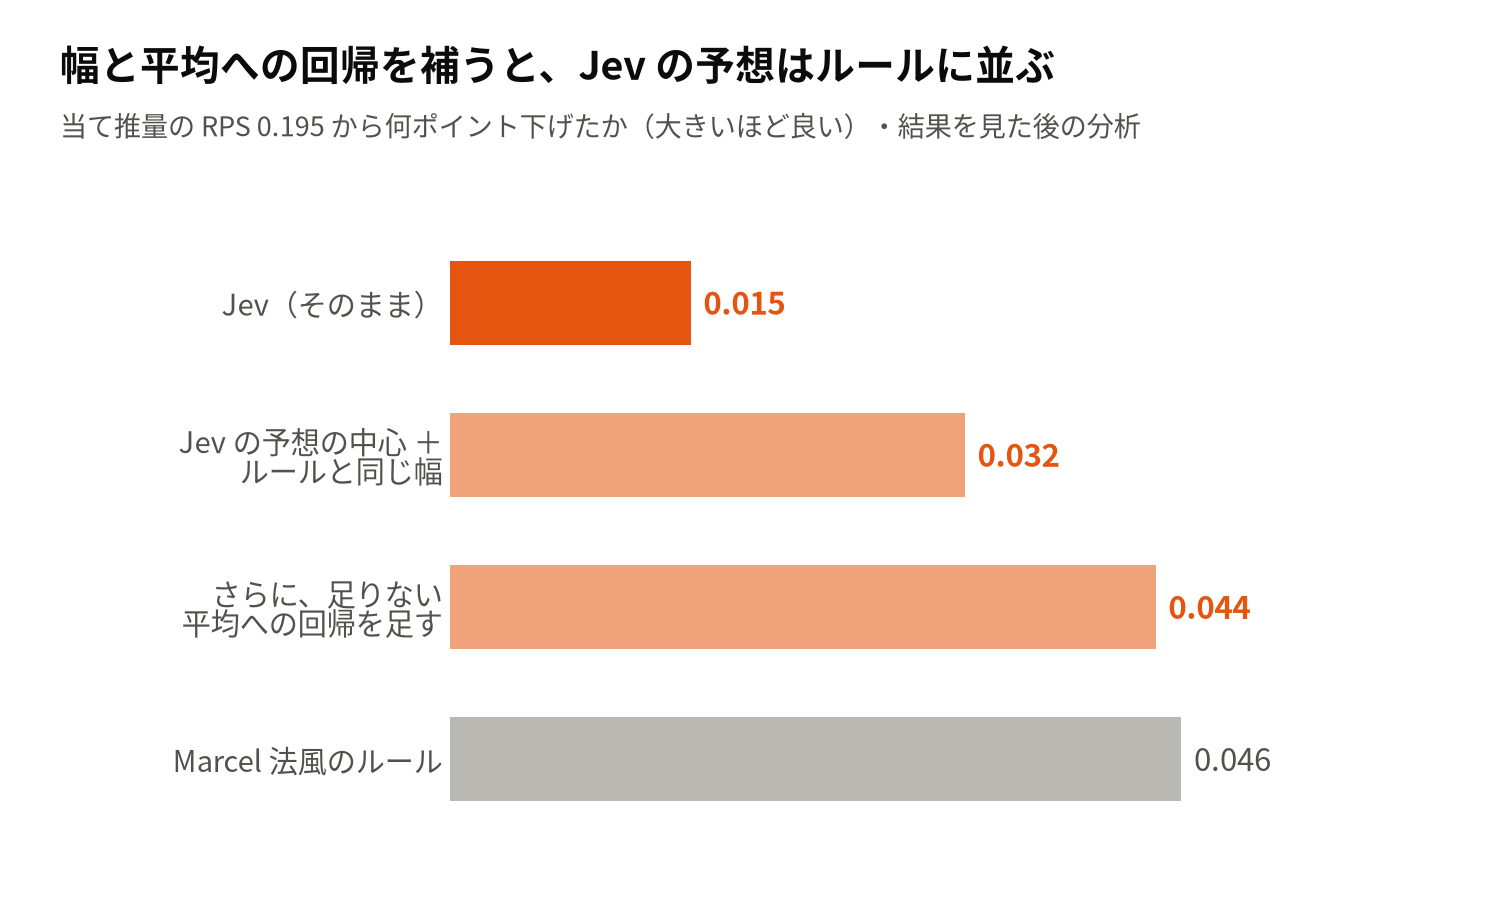
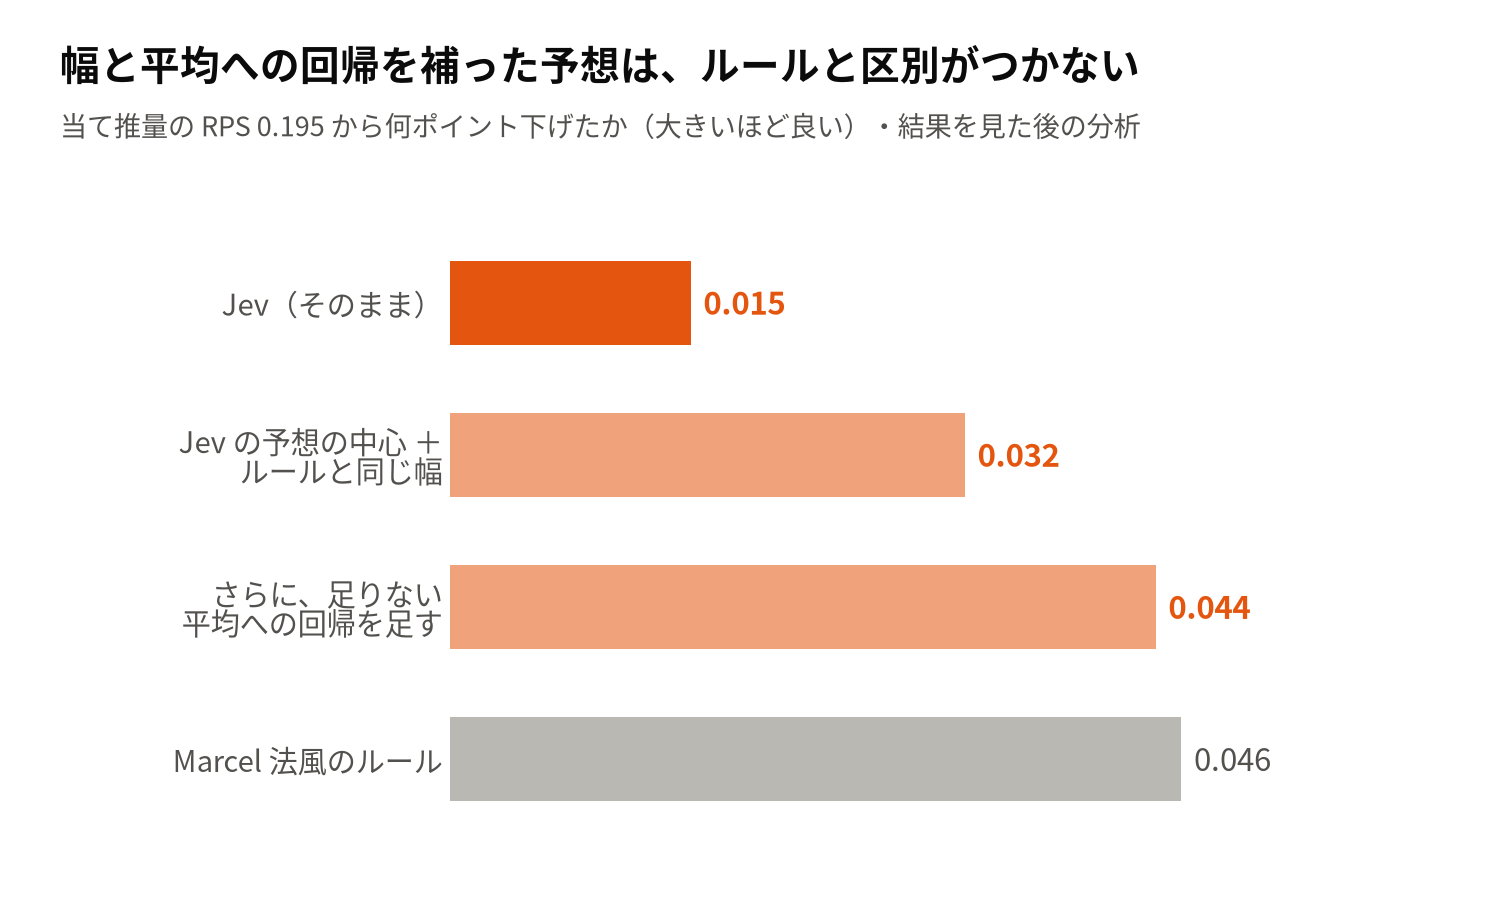
Charts: title the repaired forecast as indistinguishable, not Jev alone; legend colour
Claude-Session: https://claude.ai/code/session_01HuPvxPxit3S1V3EdoTCM6E

Changed region(s): [[0.3067, 0.0311, 0.7667, 0.0933]]

diff --git a/blog_ja/figs_ja.py b/blog_ja/figs_ja.py
@@ -171,7 +171,8 @@ ax.set_xlabel("2025 → 2026 の wOBA の変化（1 = 0.001）", fontsize=13, co
 base(ax)
 fig.text(0.04, 0.83, "● 実際", fontsize=13, color=INK, ha="left", va="top")
 fig.text(0.16, 0.83, "● Jev の予想", fontsize=13, color=ORANGE, ha="left", va="top")
-fig.text(0.34, 0.83, "● Marcel 法風のルール", fontsize=13, color=SUB, ha="left", va="top")
+fig.text(0.34, 0.83, "●", fontsize=13, color=GRAY, ha="left", va="top")
+fig.text(0.36, 0.83, "Marcel 法風のルール", fontsize=13, color=SUB, ha="left", va="top")
 title(fig, "大きく下がった強打者は外し、運の悪かった打者は当てた")
 fig.savefig(f"{OUT}/ja_7_examples.png"); plt.close(fig)
 
@@ -187,6 +188,6 @@ for i, (lab, r, c) in enumerate(arms8):
             weight="bold" if c == ORANGE else "normal")
 ax.set_yticks(range(len(arms8))[::-1]); ax.set_yticklabels([a[0] for a in arms8], fontsize=14)
 ax.set_xlim(0, 0.058); ax.set_xticks([]); base(ax); ax.spines["bottom"].set_visible(False)
-title(fig, "幅と平均への回帰を補うと、Jev の予想はルールに並ぶ", "当て推量の RPS 0.195 から何ポイント下げたか（大きいほど良い）・結果を見た後の分析")
+title(fig, "幅と平均への回帰を補った予想は、ルールと区別がつかない", "当て推量の RPS 0.195 から何ポイント下げたか（大きいほど良い）・結果を見た後の分析")
 fig.savefig(f"{OUT}/ja_8_width.png"); plt.close(fig)
 print("ok2")
